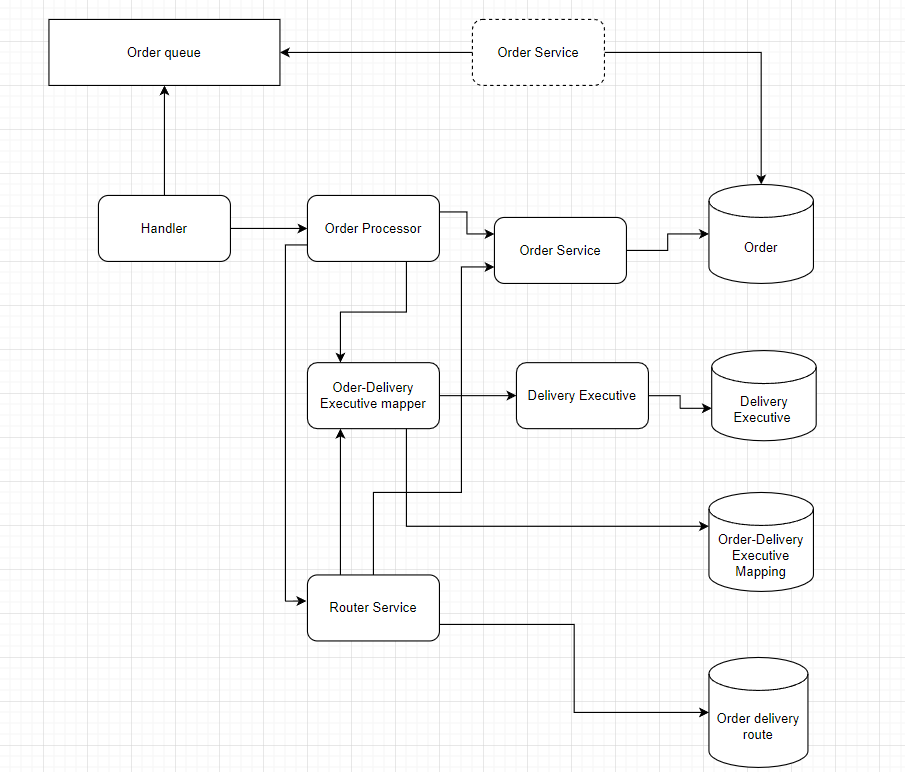
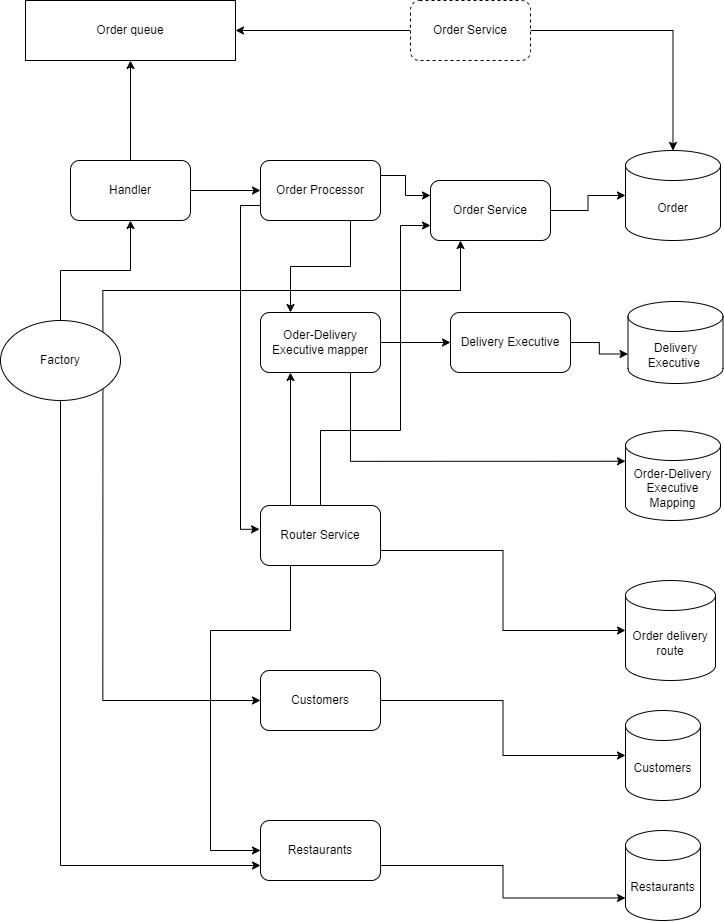
updated the diagram

diff --git a/pkg/router/bl.go b/pkg/router/bl.go
@@ -1,12 +1,13 @@
 package router
 
 import (
-	"fmt"
-	"log"
 	"deliveryOptimzer/pkg/model"
 	"deliveryOptimzer/pkg/order"
 	ordermapper "deliveryOptimzer/pkg/order_mapper"
+	"deliveryOptimzer/pkg/restaurants"
 	"deliveryOptimzer/pkg/router/dl"
+	"fmt"
+	"log"
 	"math"
 )
 
@@ -14,13 +15,15 @@ type BL struct {
 	dl            *dl.DL
 	orderBL       *order.BL
 	orderMapperBL *ordermapper.BL
+	restaurants   *restaurants.RestaurantClient
 }
 
-func NewBL(orderBL *order.BL, orderMapperBL *ordermapper.BL, dl *dl.DL) *BL {
+func NewBL(orderBL *order.BL, orderMapperBL *ordermapper.BL, restaurants *restaurants.RestaurantClient, dl *dl.DL) *BL {
 	return &BL{
 		dl:            dl,
 		orderBL:       orderBL,
 		orderMapperBL: orderMapperBL,
+		restaurants:   restaurants,
 	}
 }
 
@@ -55,7 +58,7 @@ func (bl *BL) FindBestRoute(de model.DeliveryExecutive, orders []model.Order) (l
 		currDistance := 0.0
 		prevLocation := de.Location
 		for _, currentLocation := range path {
-			prepTime := findRestaurantByLocationId(orders, currentLocation.Id).PrepTime
+			prepTime := bl.restaurants.GetRestaurantByLocationId(currentLocation.Id).PrepTime
 			currDistance += calculateDistance(prevLocation, currentLocation) + prepTimeToDistance(prepTime)
 			prevLocation = currentLocation
 		}
@@ -92,13 +95,4 @@ func prepTimeToDistance(preptime float64) float64 {
 
 func toRadians(deg float64) float64 {
 	return deg * (math.Pi / 180)
-}
-
-func findRestaurantByLocationId(orders []model.Order, locationId string) model.Restaurant {
-	for _, order := range orders {
-		if order.Restaurant.Location.Id == locationId {
-			return order.Restaurant
-		}
-	}
-	return model.Restaurant{}
 }

diff --git a/pkg/router/path_finder.go b/pkg/router/path_finder.go
@@ -55,46 +55,3 @@ func findAllOrders(de model.DeliveryExecutive, orders []model.Order) [][]model.L
 
 	return allResults
 }
-
-// func findAllPaths() {
-// 	orders := []model.Order{
-// 		{
-// 			Id: "1",
-// 			Restaurant: model.Location{
-// 				Id:        "loc1",
-// 				Name:      "l1",
-// 				Latitude:  2,
-// 				Longitude: 4,
-// 			},
-// 			Customer: model.Location{
-// 				Id:        "C1",
-// 				Name:      "C1",
-// 				Latitude:  5,
-// 				Longitude: 10,
-// 			},
-// 		},
-// 		{
-// 			Id: "2",
-// 			Restaurant: model.Location{
-// 				Id:        "loc2",
-// 				Name:      "l2",
-// 				Latitude:  4,
-// 				Longitude: 8,
-// 			},
-// 			Customer: model.Location{
-// 				Id:        "C2",
-// 				Name:      "C2",
-// 				Latitude:  14,
-// 				Longitude: 10,
-// 			},
-// 		},
-// 	}
-// 	allOrders := findAllOrders(orders)
-
-// 	for _, order := range allOrders {
-// 		for _, num := range order {
-// 			fmt.Print(num, " ")
-// 		}
-// 		fmt.Println()
-// 	}
-// }

diff --git a/pkg/factory/factory.go b/pkg/factory/factory.go
@@ -18,6 +18,8 @@ import (
 
 func FacotrySetup() {
 
+	var restaurants = restaurants.NewRestaurantClient()
+	var customers = customer.NewCustomerClient()
 	var orderDL = orderDL.NewDL()
 	var orderBL = order.NewBL(orderDL)
 
@@ -27,12 +29,12 @@ func FacotrySetup() {
 	var orderMapperDL = orderMapperDL.NewDL()
 	var orderMapperBL = ordermapper.NewBL(delExBL, orderMapperDL)
 
+	NewInitClient(orderDL, delExDL, restaurants, customers).InitHandler()
+
 	var routerDL = routerDL.NewDL()
-	var routerBL = router.NewBL(orderBL, orderMapperBL, routerDL)
+	var routerBL = router.NewBL(orderBL, orderMapperBL, restaurants, routerDL)
 
 	var orderProcessorBL = orderprocessor.NewBL(orderMapperBL, routerBL, orderBL)
-
-	NewInitClient(orderDL, delExDL, restaurants.NewRestaurantClient(), customer.NewCustomerClient()).InitHandler()
 
 	var orderqueue = make(chan model.OrderEvent, 10)
 	var handler = handler.NewHandler(orderBL, orderProcessorBL, &orderqueue)

diff --git a/pkg/restaurants/restaurants.go b/pkg/restaurants/restaurants.go
@@ -25,3 +25,13 @@ func (r *RestaurantClient) GetRestaurantById(id string) model.Restaurant {
 	}
 	return model.Restaurant{}
 }
+
+func (r *RestaurantClient) GetRestaurantByLocationId(id string) model.Restaurant {
+
+	for i := range r.restaurants {
+		if r.restaurants[i].Location.Id == id {
+			return r.restaurants[i]
+		}
+	}
+	return model.Restaurant{}
+}
